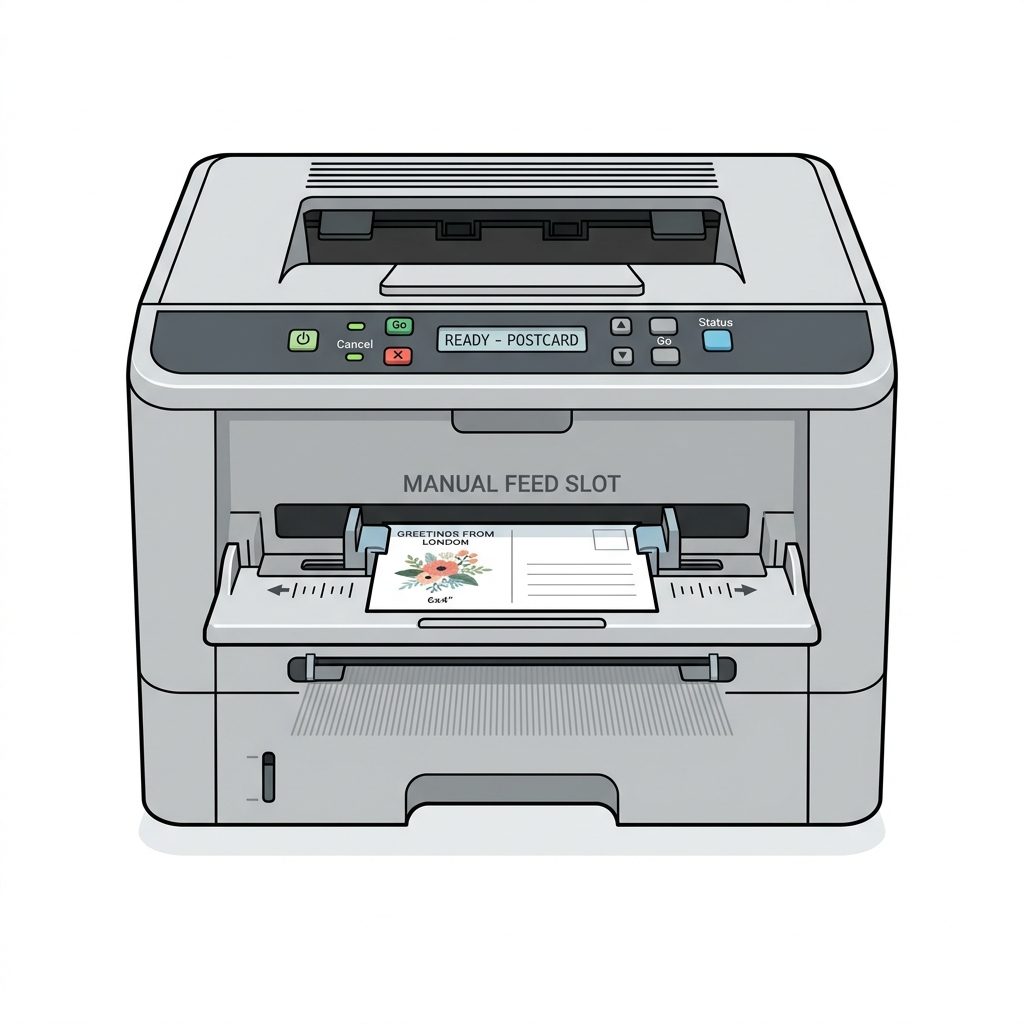
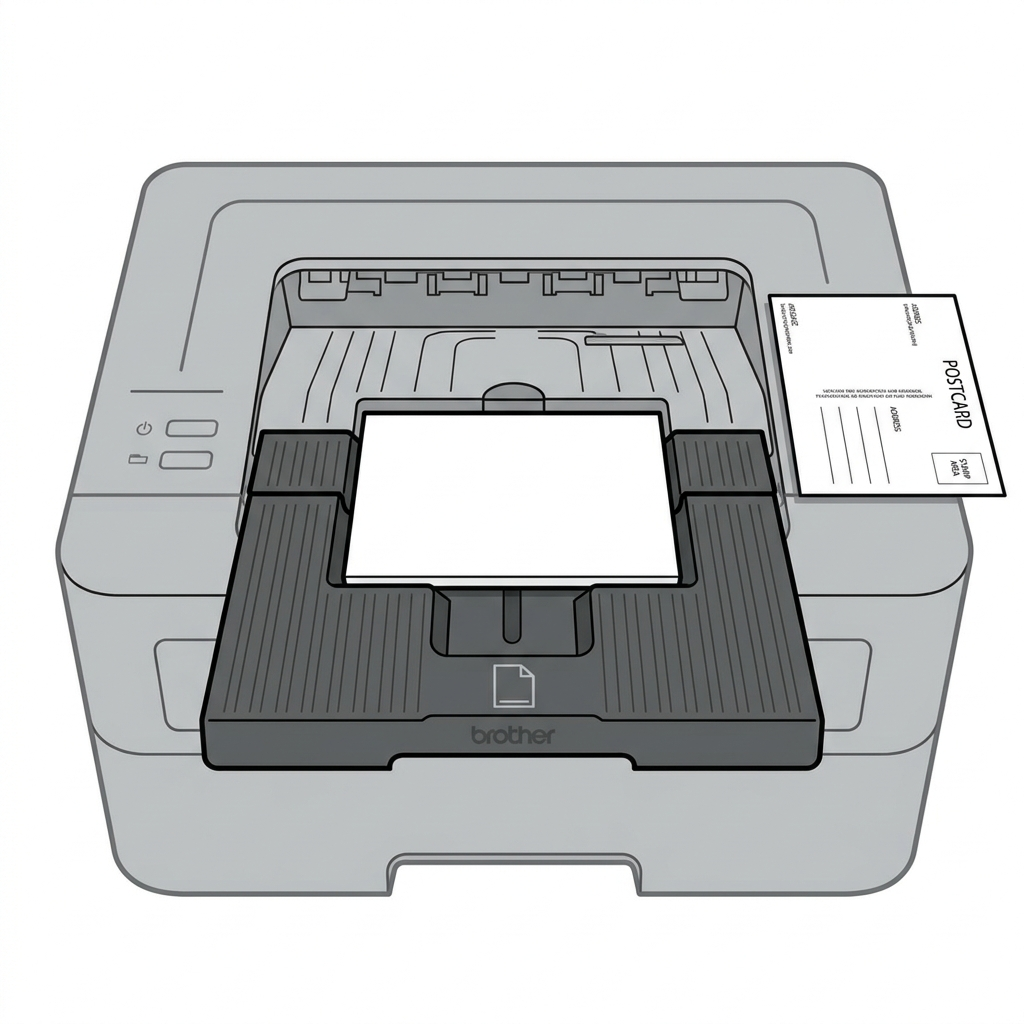
Update brother laser image to match user photo perfectly

diff --git a/src/pages/WorldCupPortal.jsx b/src/pages/WorldCupPortal.jsx
@@ -415,7 +415,7 @@ function WorldCupPortal() {
                   </div>
 
                   <h4 style={{ color: '#0f172a', marginBottom: '0.5rem' }}>แบบที่ 2: ป้อนมือด้านหน้า (เช่น Brother Laser)</h4>
-                  <p style={{ fontSize: '0.9rem', color: '#475569', marginBottom: '1rem' }}>สอดกระดาษ <strong>แนวนอน</strong> เข้าช่องหน้าตรงกลาง โดยมีตัวบีบซ้ายและขวา <br/><strong>บนเว็บให้เลือก:</strong> แนวนอน</p>
+                  <p style={{ fontSize: '0.9rem', color: '#475569', marginBottom: '1rem' }}>สอดกระดาษ <strong>แนวนอน</strong> เข้าช่องหน้าตรงกลาง <strong>(หงายหน้าเปล่าขึ้น หันหัวไปรษณียบัตรไปทางขวา)</strong><br/><strong>บนเว็บให้เลือก:</strong> แนวนอน</p>
                   <div style={{ border: '1px solid #e2e8f0', borderRadius: '8px', padding: '1rem', textAlign: 'center', background: '#f8fafc' }}>
                     <img src="./guide_brother.png" alt="การป้อนกระดาษแนวนอน Brother Laser" style={{ maxWidth: '100%', height: 'auto', maxHeight: '200px' }} />
                   </div>